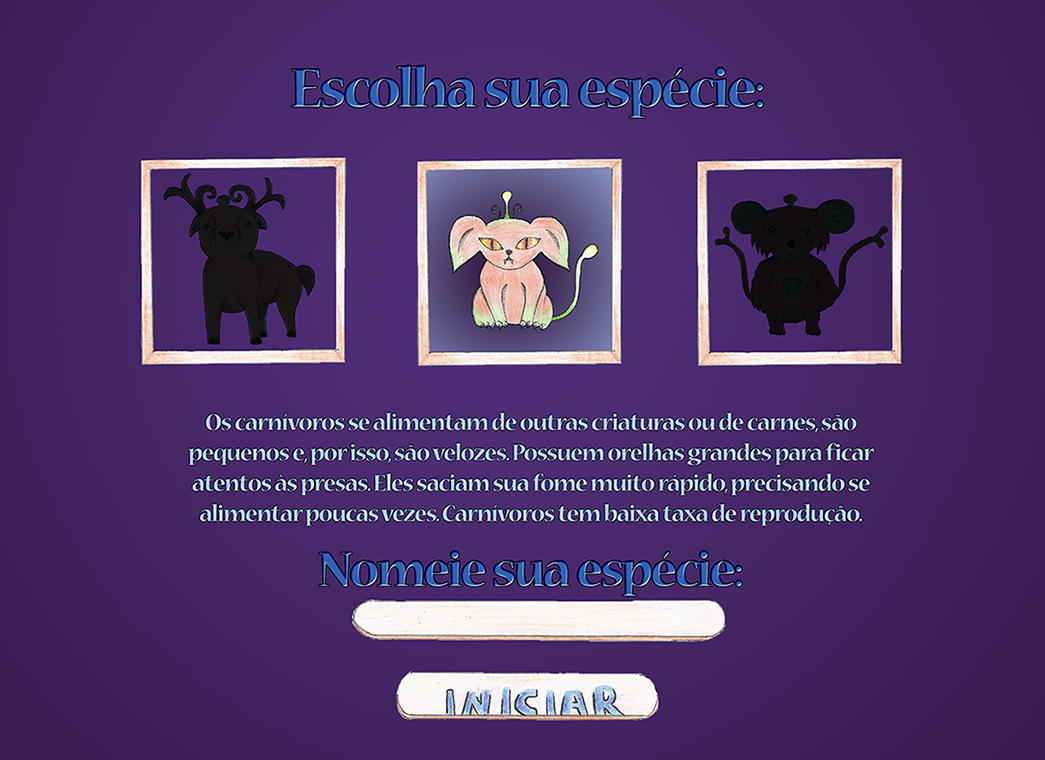
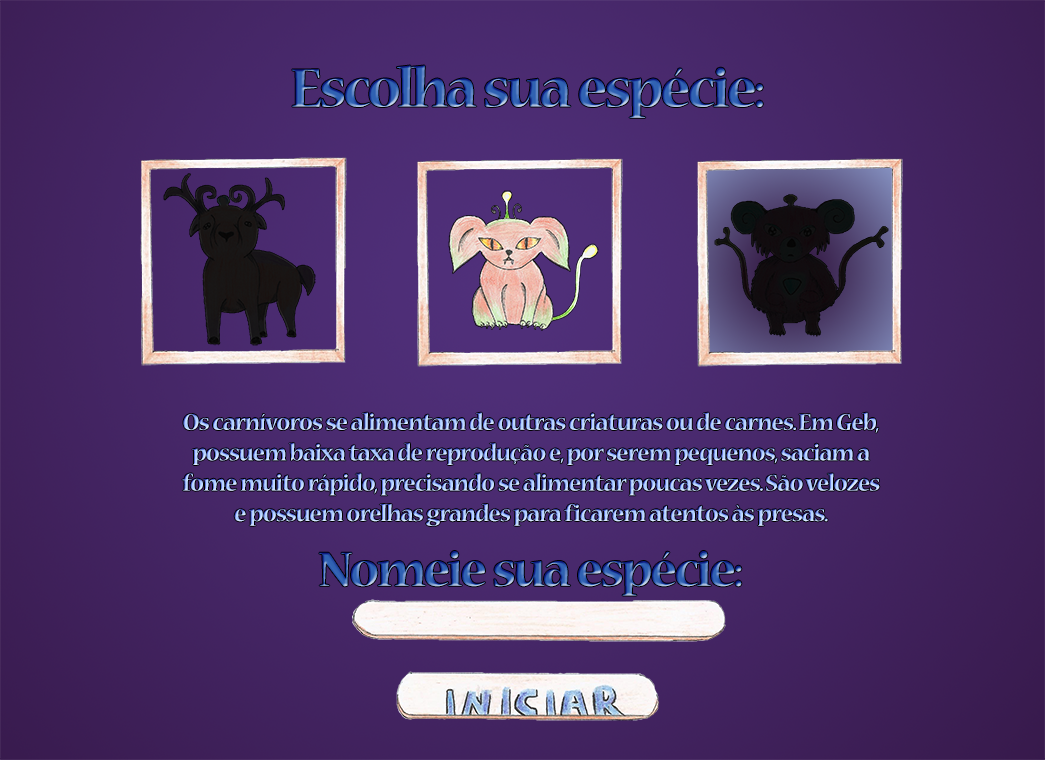
Alteração nas imagens de seleção da criatura e modificação no preço dos upgrades.

diff --git a/js/main.js b/js/main.js
@@ -417,7 +417,7 @@ function setup(){
     // dá a pontuação apropriada dependendo do upgrade
     switch (upgradeSelecionado) {
       case 0:
-        if (pontuacao >= 150){
+        if (pontuacao >= 200){
           criaturasSalvas[0][0].push("Chifres");
           criaturasSalvas[0][5] += 0.25;
           criaturasSalvas[0][4] -= 0.25;
@@ -426,14 +426,14 @@ function setup(){
           } else if (criatura[1] == 2){
             criaturasSalvas[0][6] = imagens[5];
           }
-          pontuacao -= 150;
+          pontuacao -= 200;
         } else {
           alert("Você não tem pontuação suficiente para pegar esta mutação.");
           return false;
         }
         break;
       case 1:
-        if (pontuacao >= 100){
+        if (pontuacao >= 200){
           criaturasSalvas[0][0].push("Orelhas Grandes");
           criaturasSalvas[0][4] += 0.25;
           criaturasSalvas[0][5] -= 0.25;
@@ -442,14 +442,14 @@ function setup(){
           } else if (criatura[1] == 2){
             criaturasSalvas[0][6] = imagens[8];
           }
-          pontuacao -= 100;
+          pontuacao -= 200;
         } else {
           alert("Você não tem pontuação suficiente para pegar esta mutação.");
           return false;
         }
         break;
       case 2:
-        if (pontuacao >= 150){
+        if (pontuacao >= 200){
           criaturasSalvas[0][0].push("Duas Caudas");
           criaturasSalvas[0][3] -= 0.3;
           criaturasSalvas[0][5] -= 0.25;
@@ -458,14 +458,14 @@ function setup(){
           } else if (criatura[1] == 1){
             criaturasSalvas[0][6] = imagens[7];
           }
-          pontuacao -= 150;
+          pontuacao -= 200;
         } else {
           alert("Você não tem pontuação suficiente para pegar esta mutação.");
           return false;
         }
         break;
       case 3:
-        if (pontuacao >= 100){
+        if (pontuacao >= 150){
           criaturasSalvas[0][0].push("Escalar Árvores");
           criaturasSalvas[0][4] += 0.25;
           criaturasSalvas[0][3] += 0.3;
@@ -476,14 +476,14 @@ function setup(){
           } else if (criatura[1] == 2){
             criaturasSalvas[0][6] = imagens[11];
           }
-          pontuacao -= 100;
+          pontuacao -= 150;
         } else {
           alert("Você não tem pontuação suficiente para pegar esta mutação.");
           return false;
         }
         break;
       case 4:
-        if (pontuacao >= 150){
+        if (pontuacao >= 250){
           criaturasSalvas[0][0].push("Peçonha");
           criaturasSalvas[0][3] -= 0.3;
           criaturasSalvas[0][4] -= 0.25;
@@ -494,14 +494,14 @@ function setup(){
           } else if (criatura[1] == 2){
             criaturasSalvas[0][6] = imagens[14];
           }
-          pontuacao -= 150;
+          pontuacao -= 250;
         } else {
           alert("Você não tem pontuação suficiente para pegar esta mutação.");
           return false;
         }
         break;
       case 5:
-        if (pontuacao >= 100){
+        if (pontuacao >= 200){
           criaturasSalvas[0][0].push("Carapaça");
           criaturasSalvas[0][5] += 0.33;
           criaturasSalvas[0][4] -= 0.33;
@@ -512,14 +512,14 @@ function setup(){
           } else if (criatura[1] == 2){
             criaturasSalvas[0][6] = imagens[17];
           }
-          pontuacao -= 100;
+          pontuacao -= 200;
         } else {
           alert("Você não tem pontuação suficiente para pegar esta mutação.");
           return false;
         }
         break;
       case 6:
-        if (pontuacao >= 150){
+        if (pontuacao >= 250){
           criaturasSalvas[0][0].push("Asas");
           criaturasSalvas[0][3] += 0.3;
           criaturasSalvas[0][4] += 0.25;
@@ -530,14 +530,14 @@ function setup(){
           } else if (criatura[1] == 2){
             criaturasSalvas[0][6] = imagens[20];
           }
-          pontuacao -= 150;
+          pontuacao -= 250;
         } else {
           alert("Você não tem pontuação suficiente para pegar esta mutação.");
           return false;
         }
         break;
       case 7:
-        if (pontuacao >= 85){
+        if (pontuacao >= 100){
           criaturasSalvas[0][0].push("Espinhos");
           criaturasSalvas[0][3] += 0.3;
           criaturasSalvas[0][5] += 0.25;
@@ -548,7 +548,7 @@ function setup(){
           } else if (criatura[1] == 2){
             criaturasSalvas[0][6] = imagens[23];
           }
-          pontuacao -= 85;
+          pontuacao -= 100;
         } else {
           alert("Você não tem pontuação suficiente para pegar esta mutação.");
           return false;
@@ -819,14 +819,14 @@ function draw(){
             image(menusImagens[20], 0, 0);
             break;
         }
-        text('150', 120, 390);
-        text('100', 263, 390);
-        text('150', 406, 390);
-        text('100', 549, 390);
-        text('150', 120, 570);
-        text('100', 263, 570);
-        text('150', 406, 570);
-        text('85', 553, 570);
+        text('200', 120, 390);
+        text('200', 263, 390);
+        text('200', 406, 390);
+        text('150', 549, 390);
+        text('250', 120, 570);
+        text('200', 263, 570);
+        text('250', 406, 570);
+        text('100', 553, 570);
       } else {
         level.rodar(); // todos os levels
       }

diff --git a/js/level.js b/js/level.js
@@ -297,8 +297,9 @@ Level.prototype.rodar = function(){
 
     } else if (minigame == 2){ // minigame arena
       if (arena){
-        text("Você controla a criatura circulada de azul com o mouse", xGame/2 - 100, 30);
-        text("Cace a criatura verde adversária antes que a criatura vermelha cace sua criatura verde", xGame/2 - 100, 60);
+        text("Você controla a criatura circulada de azul com o mouse", xGame/2 - 150, 50);
+        text("Cace a criatura verde adversária antes que a criatura vermelha", xGame/2 - 200, 70);
+        text("cace sua criatura verde!", xGame/2 - 200, 90);
         for (var i = criaturasMiniGame.length - 1; i >= 0; i--){
           var crtr = criaturasMiniGame[i];
           if (crtr.acabou()){

diff --git a/js/level4.js b/js/level4.js
@@ -222,6 +222,7 @@ Level4.prototype.rodar = function(){
     if (miniGameOn){
       if (arena2){
         text("Pegue os pontos de modificação que irão cair:", xGame/2 - 100, 30);
+        text(miniGamePontos + '/250', xGame/2 - 50, 500);
         // gera novas comidas se tiver menos da quantidade definida de comidas no canvas
         if (moedas.length <= 0 || random(1) < 0.005){
           moedas.push(new Moeda());
